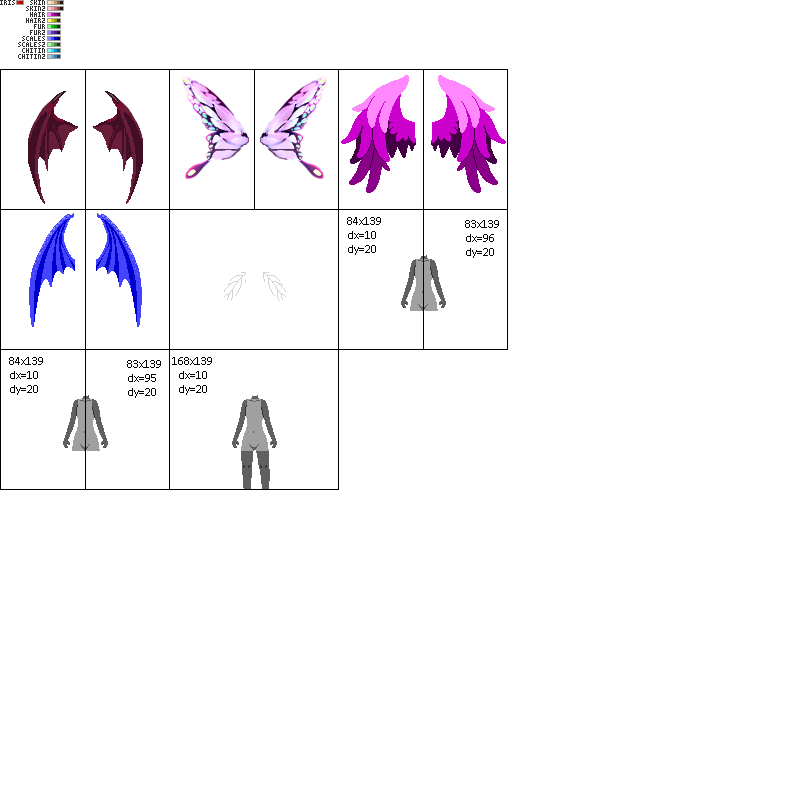
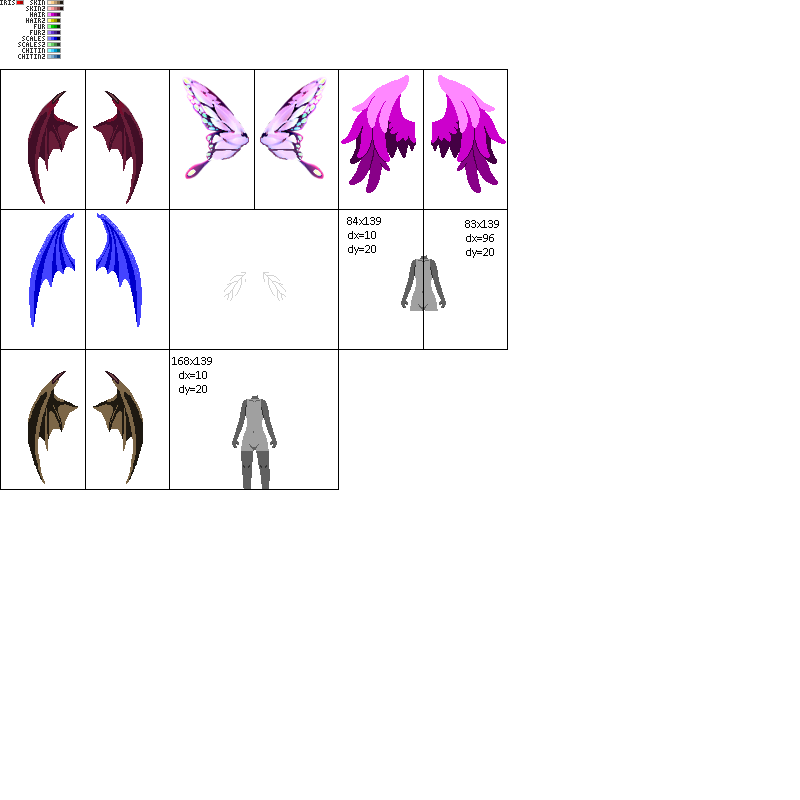
* Charview update (goo legs, demon wings) * Spred bugfix * Spred local webserver

Changed region(s): [[0.0312, 0.4375, 0.1875, 0.5938]]

diff --git a/devTools/spred/spred.js b/devTools/spred/spred.js
@@ -278,6 +278,7 @@ var spred;
             this.model = model;
             this._parts = {};
             this._cache = {};
+            this._version = 0;
             this.colormap = {};
             this.canvas = newCanvas(model.width * zoom, model.height * zoom);
             this.canvas.setAttribute('focusable', 'true');
@@ -297,6 +298,7 @@ var spred;
             this._cache = {};
         }
         redraw(x = 0, y = 0, w = this.model.width, h = this.model.height) {
+            let version = ++this._version;
             let ctx2d = this.canvas.getContext('2d');
             ctx2d.imageSmoothingEnabled = false;
             let z = this.zoom;
@@ -325,6 +327,8 @@ var spred;
                 let part = a[i];
                 if (this._parts[part.name]) {
                     p0 = p0.then(ctx2d => {
+                        if (version != this._version)
+                            return ctx2d;
                         let sprite = this.model.sprite(part.name);
                         if (part.name in this._cache) {
                             drawImage(this._cache[part.name], x, y, w, h, ctx2d, part.dx + sprite.dx - this.model.originX, part.dy + sprite.dy - this.model.originY, this.model.width, this.model.height, z);
@@ -337,6 +341,8 @@ var spred;
                                 if (x == 0 && y == 0 && w == this.model.width && h == this.model.height) {
                                     this._cache[part.name] = bmp;
                                 }
+                                if (version != this._version)
+                                    return ctx2d;
                                 drawImage(bmp, x, y, w, h, ctx2d, part.dx + sprite.dx - this.model.originX, part.dy + sprite.dy - this.model.originY, this.model.width, this.model.height, z);
                                 return ctx2d;
                             });
@@ -383,6 +389,7 @@ var spred;
             this.canvas.width = width;
             this.canvas.height = height;
             this.ctx2d = this.canvas.getContext('2d');
+            this.ctx2d.imageSmoothingEnabled = false;
             this.ctx2d.drawImage(src, srcX, srcY, width, height, 0, 0, width, height);
         }
         updateUI() {

diff --git a/devTools/spred/spred.ts b/devTools/spred/spred.ts
@@ -209,6 +209,7 @@ namespace spred {
 		
 		private _parts: Dict<boolean>          = {};
 		private _cache: Dict<ImageBitmap>      = {};
+		private _version = 0;
 		public readonly canvas: HTMLCanvasElement;
 		public readonly colormap: Dict<string> = {};
 		
@@ -231,6 +232,7 @@ namespace spred {
 					  y: number = 0,
 					  w: number = this.model.width,
 					  h: number = this.model.height) {
+			let version = ++this._version;
 			let ctx2d                   = this.canvas.getContext('2d');
 			ctx2d.imageSmoothingEnabled = false;
 			let z                       = this.zoom;
@@ -257,6 +259,7 @@ namespace spred {
 				let part = a[i];
 				if (this._parts[part.name]) {
 					p0 = p0.then(ctx2d => {
+						if (version != this._version) return ctx2d;
 						let sprite = this.model.sprite(part.name);
 						if (part.name in this._cache) {
 							drawImage(this._cache[part.name], x, y, w, h,
@@ -272,6 +275,7 @@ namespace spred {
 								if (x == 0 && y == 0 && w == this.model.width && h == this.model.height) {
 									this._cache[part.name] = bmp;
 								}
+								if (version != this._version) return ctx2d;
 								drawImage(bmp, x, y, w, h,
 									ctx2d,
 									part.dx + sprite.dx - this.model.originX,
@@ -348,6 +352,7 @@ namespace spred {
 			this.canvas.width  = width;
 			this.canvas.height = height;
 			this.ctx2d         = this.canvas.getContext('2d');
+			this.ctx2d.imageSmoothingEnabled = false;
 			this.ctx2d.drawImage(src, srcX, srcY, width, height, 0, 0, width, height);
 		}
 	}

diff --git a/spred.py b/spred.py
@@ -1,0 +1,23 @@
+#!/usr/bin/python
+
+import SimpleHTTPServer
+import SocketServer
+
+PORT = 8000
+
+class Handler(SimpleHTTPServer.SimpleHTTPRequestHandler):
+	def do_GET(self):
+		if self.path == "/":
+			self.send_response(302) # Found
+			self.send_header("Location", "/devTools/spred/spred.html")
+			self.end_headers()
+			return
+		SimpleHTTPServer.SimpleHTTPRequestHandler.do_GET(self)
+	def end_headers(self):
+		self.send_header("Cache-Control","no-cache")
+		SimpleHTTPServer.SimpleHTTPRequestHandler.end_headers(self)
+
+httpd = SocketServer.TCPServer(("", PORT), Handler)
+
+print "serving at http://localhost:"+str(PORT)+"/"
+httpd.serve_forever()
